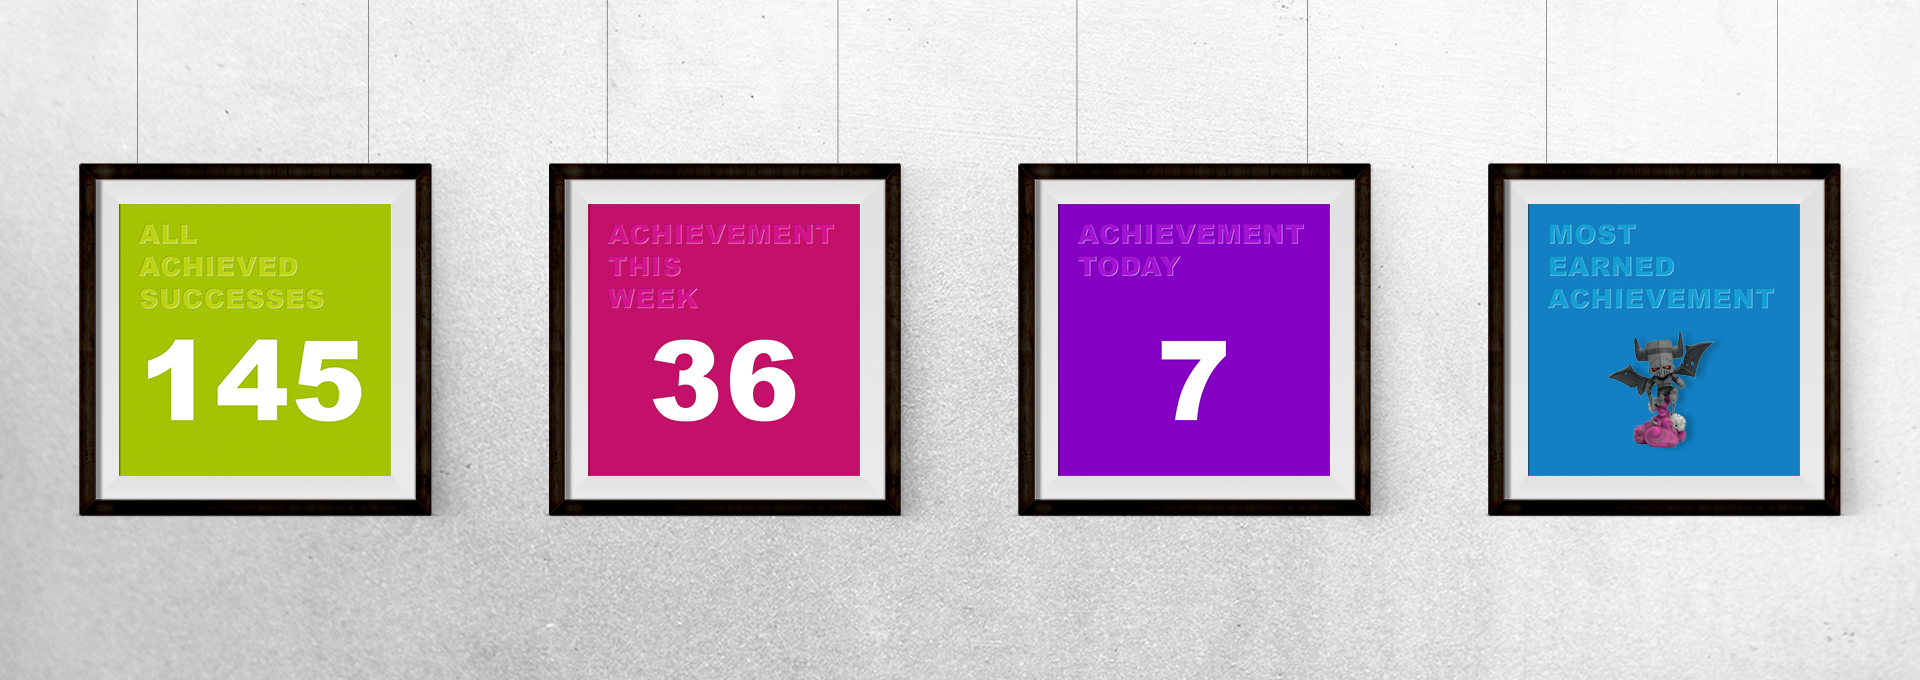
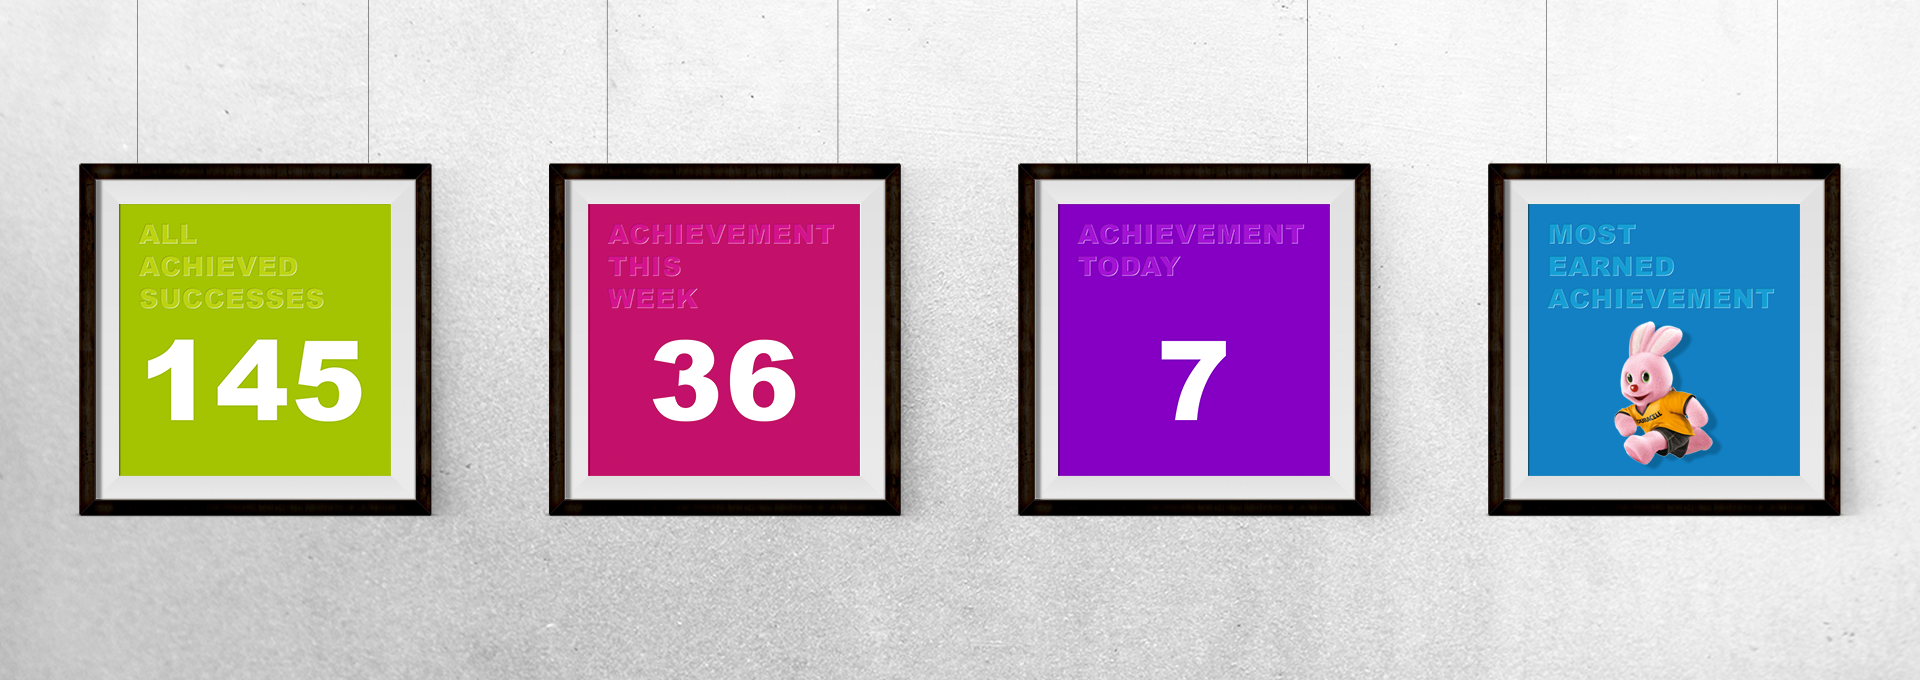
Working

Changed region(s): [[0.8438, 0.4632, 0.9062, 0.6794]]

diff --git a/js/app.js b/js/app.js
@@ -14,16 +14,10 @@ window.app = app;
 var users = [
     'chdvajo0',
     'chdrepa0',
-    'bymshpa0',
-    'bymnini0',
-    'bymanol0',
     'chdvere0',
     'chdhasy0',
     'chdscmr0',
-    'bymprdm0',
-    'bymgovl0',
     'chdmedo0',
-    'bymbrva0',
     'chdfagu0',
     'chdmema0',
     'chdboal0',
@@ -31,7 +25,6 @@ var users = [
     'chdwapa0',
     'chdhaju0',
     'chdbhsa0',
-    'bymkadm0',
     'chdmaal0',
     'chdgane0',
     'chdjolo0',

diff --git a/css/style.css b/css/style.css
@@ -75,7 +75,7 @@ a.invisible {
     color: #FFFFFF;
     text-shadow: 0 1px 2px rgba(0, 0, 0, .6);
     opacity: 0.8;
-    max-width: 351px;
+    max-width: 320px;
     white-space: nowrap;
     overflow: hidden;
     text-overflow: ellipsis;

diff --git a/php/app.php b/php/app.php
@@ -489,12 +489,12 @@ class App
             foreach ($leDate as $leEntry) {
                 $date = new DateTime();
                 $date->setTimestamp(strtotime($leEntry));
-                $list .= "<tr><td>Received at</td><td>".date_format($date, "d.m.y")."</td></tr>";
+                $list .= "<tr><td>Received on</td><td>".date_format($date, "d.m.y")."</td></tr>";
             }
         } else {
             $date = new DateTime();
             $date->setTimestamp(strtotime($leDate));
-            $list .= "<tr><td>Received at</td><td>".date_format($date, "d.m.y")."</td></tr>";
+            $list .= "<tr><td>Received on</td><td>".date_format($date, "d.m.y")."</td></tr>";
         }
 
         return $list;

diff --git a/php/popover/chuck-norris-award.php b/php/popover/chuck-norris-award.php
@@ -6,7 +6,7 @@ foreach ($app->metaData["hall_of_fame"] as $key => $data) {
         foreach (is_array($data) ? $data : array() as $idx => $leDate) {
             foreach ($leDate as $name => $unixTstamp) {
                 $date = new DateTime();
-                $date->setTimestamp(strtotime($unixTstamp));
+                $date->setTimestamp($unixTstamp);
                 $list .= "<tr><td>".date_format($date, "d.m.y")."</td><td>".$name."</td></tr>";
             }
         }
@@ -15,7 +15,7 @@ foreach ($app->metaData["hall_of_fame"] as $key => $data) {
 ?>
 
 <p class="green-text">
-    ...
+    Only Chuck Norris will earn Chuck Norris...
 </p>
 
 <table class="table table-striped">

diff --git a/php/popover/catdog-award.php b/php/popover/catdog-award.php
@@ -6,7 +6,7 @@ foreach ($app->metaData["hall_of_fame"] as $key => $data) {
         foreach (is_array($data) ? $data : array() as $idx => $leDate) {
             foreach ($leDate as $name => $unixTstamp) {
                 $date = new DateTime();
-                $date->setTimestamp(strtotime($unixTstamp));
+                $date->setTimestamp($unixTstamp);
                 $list .= "<tr><td>".date_format($date, "d.m.y")."</td><td>".$name."</td></tr>";
             }
         }

diff --git a/php/popover/duracell-master.php b/php/popover/duracell-master.php
@@ -6,7 +6,7 @@ foreach ($app->metaData["hall_of_fame"] as $key => $data) {
         foreach (is_array($data) ? $data : array() as $idx => $leDate) {
             foreach ($leDate as $name => $unixTstamp) {
                 $date = new DateTime();
-                $date->setTimestamp(strtotime($unixTstamp));
+                $date->setTimestamp($unixTstamp);
                 $list .= "<tr><td>".date_format($date, "d.m.y")."</td><td>".$name."</td></tr>";
             }
         }

diff --git a/php/popover/ovo-master.php b/php/popover/ovo-master.php
@@ -6,7 +6,7 @@ foreach ($app->metaData["hall_of_fame"] as $key => $data) {
         foreach (is_array($data) ? $data : array() as $idx => $leDate) {
             foreach ($leDate as $name => $unixTstamp) {
                 $date = new DateTime();
-                $date->setTimestamp(strtotime($unixTstamp));
+                $date->setTimestamp($unixTstamp);
                 $list .= "<tr><td>".date_format($date, "d.m.y")."</td><td>".$name."</td></tr>";
             }
         }

diff --git a/php/popover/sheldon-award.php b/php/popover/sheldon-award.php
@@ -6,7 +6,7 @@ foreach ($app->metaData["hall_of_fame"] as $key => $data) {
         foreach (is_array($data) ? $data : array() as $idx => $leDate) {
             foreach ($leDate as $name => $unixTstamp) {
                 $date = new DateTime();
-                $date->setTimestamp(strtotime($unixTstamp));
+                $date->setTimestamp($unixTstamp);
                 $list .= "<tr><td>".date_format($date, "d.m.y")."</td><td>".$name."</td></tr>";
             }
         }

diff --git a/php/popover/zombie-award.php b/php/popover/zombie-award.php
@@ -6,7 +6,7 @@ foreach ($app->metaData["hall_of_fame"] as $key => $data) {
         foreach (is_array($data) ? $data : array() as $idx => $leDate) {
             foreach ($leDate as $name => $unixTstamp) {
                 $date = new DateTime();
-                $date->setTimestamp(strtotime($unixTstamp));
+                $date->setTimestamp($unixTstamp);
                 $list .= "<tr><td>".date_format($date, "d.m.y")."</td><td>".$name."</td></tr>";
             }
         }

diff --git a/php/popover/forever-alone.php b/php/popover/forever-alone.php
@@ -6,7 +6,7 @@
             foreach (is_array($data) ? $data : array() as $idx => $leDate) {
                 foreach ($leDate as $name => $unixTstamp) {
                     $date = new DateTime();
-                    $date->setTimestamp(strtotime($unixTstamp));
+                    $date->setTimestamp($unixTstamp);
                     $list .= "<tr><td>".date_format($date, "d.m.y")."</td><td>".$name."</td></tr>";
                 }
             }

diff --git a/php/popover/user_ovo.php b/php/popover/user_ovo.php
@@ -15,7 +15,7 @@ if ($list == "") {
 ?>
 
 <p class="green-text">
-    The smallest value, when divided the time between the first and the last daily commits with the lines of code per day
+    Smallest amount of lines of Code compared to the amount of commits
 </p>
 
 <table class="table table-striped">

diff --git a/php/popover/user_duracell.php b/php/popover/user_duracell.php
@@ -15,7 +15,7 @@ if ($list == "") {
 ?>
 
 <p class="green-text">
-    The biggest value, when divided the time between the first and the last daily commits with the lines of code per day
+    Highest amount of lines of Code compared to the amount of commits
 </p>
 
 <table class="table table-striped">
